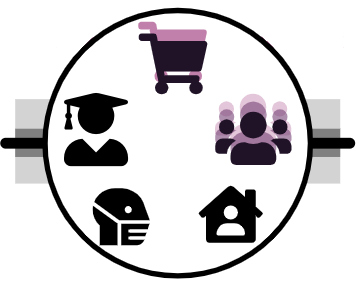
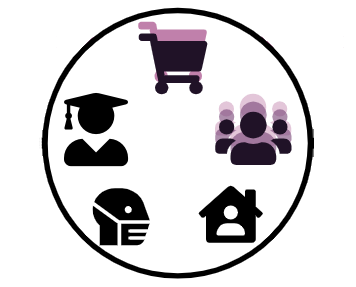
circs

Changed region(s): [[0.0, 0.3345, 0.1545, 0.6411], [0.8652, 0.3345, 1.0, 0.6411]]

diff --git a/_includes/researches/papers.css b/_includes/researches/papers.css
@@ -2,6 +2,21 @@
 	font-weight: bold;
 }
 
+img {
+  border-radius: 50%;
+  border: 4px solid transparent;
+}
+
+img:hover {
+  border: 4px dashed black;
+}
+
+img.bris {
+  border-radius: 0%;
+  border: 0px solid transparent;
+}
+
+
 .noline {
 	text-decoration-thickness: 17%;
 	text-decoration-skip: spaces;

diff --git a/_includes/researches/icons.html b/_includes/researches/icons.html
@@ -1,4 +1,4 @@
-<div class="frame hoverable">
+<div class="frame">
 
 	<a class="nolink" href="{{bris}}">
     	<img class="bris" src="/img/bris_logo.svg" />

diff --git a/_includes/wc.html b/_includes/wc.html
@@ -1,1 +1,1 @@
-{{ 1376544 | thousands_separated }}
+{{ 1376571 | thousands_separated }}
